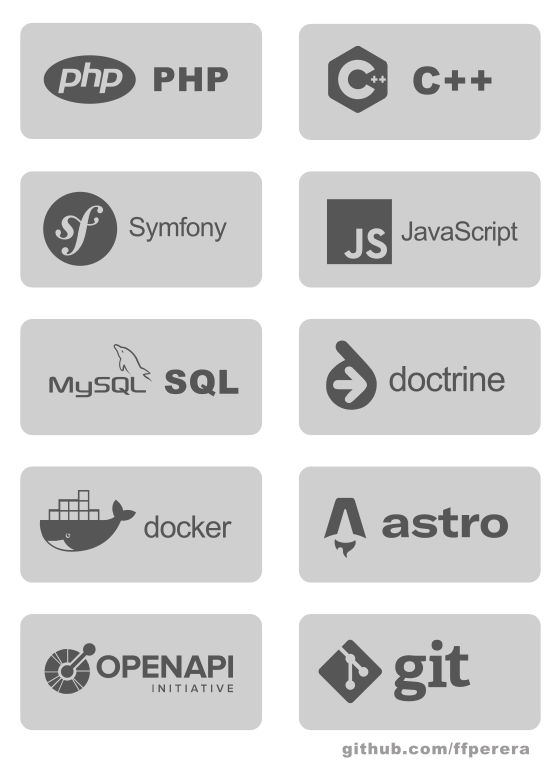
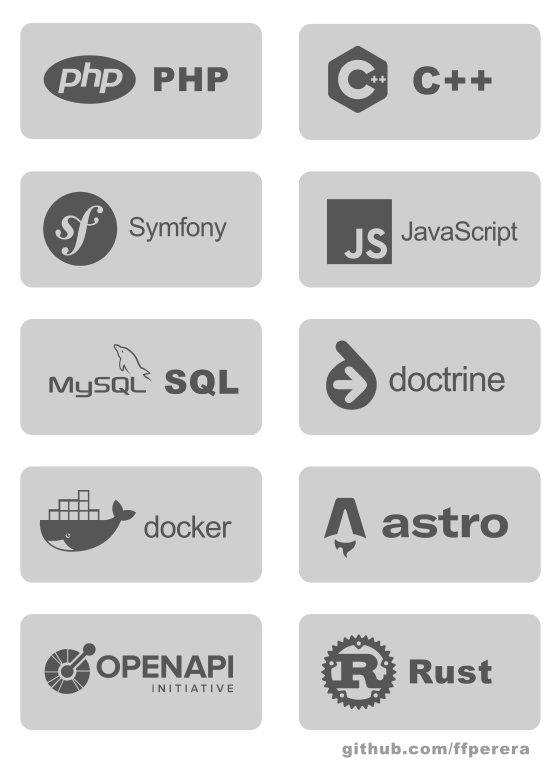
actualización contenido e imágenes

Changed region(s): [[0.5768, 0.8107, 0.8804, 0.9308]]

diff --git a/README.md b/README.md
@@ -1,66 +1,67 @@
-![Felipe Fernández](images/felipe-fernandez-perera-profile-github.jpg)
+![Felipe Fernández](images/felipe-fernandez-perera-profile-github2.jpg)
 
 
 # Felipe Fernández Perera 
 
-¡Hola! 👋
+Hi! 👋
 
-Mi nombre es *Felipe Fernández*. 
+My name is *Felipe Fernández*. 
 
 [![LinkedIn](https://img.shields.io/badge/linkedin-%230077B5.svg?style=for-the-badge&logo=linkedin&logoColor=white)](https://www.linkedin.com/in/felipefernandez/)
 
-Soy ingeniero de telecomunicaciones (ingeniería técnica en **Univ. Alcalá de Henares**, ingeniería superior telecomunicaciones en **Univ. Cantabria**), aunque prácticamente toda mi carrera profesional ha estado relacionada principalmente con el desarrollo de software.   
 
-En 1998 puse en marcha, junto con mi hermano, también teleco, una empresa de **consultoría IT y desarrollo de software**, orientada sobre todo a pequeña y mediana empresa. Para clientes finales y como socios tecnológicos para diferentes consultoras. 
+I am a telecom engineer (bachelor degree from University of Alcalá de Henares, master degree from University of Cantabria), although my entire professional career has been related to software development.
 
-Nos dedicábamos sobre todo a desarrollo backend: automatización, paneles de gestión / backoffice, integración de procesos, integración con APIs externas y APIs propias, desarrollo de plugins para aplicaciones comerciales...
+In 1998, together with my brother, also a telecom engineer, we started an IT consulting and software development company, primarily focused on small and medium-sized businesses. We worked for end clients and, as technology partners, for various consulting firms covering national (Spain) and international clients.
 
-En 2015 decidí centrarme en proyectos propios, relacionados con creación de contenidos, divulgación, SEO, etc. Una actividad que me permitía pasar más tiempo con mi familia y mis hijos pequeños.
+We mainly focused on backend development: automation, backoffices, business process integration, internal and external APIs integration, plugins for commercial applications (WordPress, PrestaShop)...
 
-En este momento estoy abierto a propuestas y nuevas oportunidades profesionales. Puedes contactar conmigo a través de [mi perfil de linkedin](https://www.linkedin.com/in/felipefernandez/).
+In 2015, I decided to focus on my own projects, mainly related to content creation and SEO. This was an activity that allowed me to spend more time with my kids.
+
+Now, I am open to proposals and new professional opportunities. You can contact me through [my LinkedIn profile](https://www.linkedin.com/in/felipefernandez/).
 
 
-## Habilidades / skills
+## Skills
 
-Me encanta aprender cosas nuevas. 
+I love learning.
 
-Aprender, investigar, enfrentar un problema técnico hasta encontrar una solución.
+Learning new things, researching, and tackling a technical problem until I find a solution.
 
-En muchos proyectos mi papel ha estado más centrado en la parte de análisis y planificación: elaborar informes técnicos, recomendaciones y especificaciones a partir de las necesidades del cliente, redacción de casos de uso / historias de usuario, planificación, seguimiento...
+In many projects my role has been more focused on analysis and planning: writing technical reports, recommendations, technical specifications based on the client's needs, project management...
 
-Pero también me gusta programar. 
+But I also enjoy programming.
 
-He programado en muchos lenguajes: C/C++, Java, Python, JavaScript... 
+I have programmed in many languages: C/C++, Java, PHP, Python, JavaScript, Rust...
 
-Una gran parte de las aplicaciones y desarrollos han sido en PHP, utilizando nuestros propios frameworks en algunos casos, frameworks genéricos como *Symfony* en otros, o adaptándonos a la arquitectura del proyecto o del software utilizado en el mismo (*WordPress* y su ecosistema, *PrestaShop*, *Magento*, *Moodle*...)   
 
 ![tecnologías](images/software-technologies.png)
 
-Casi siempre he trabajado con equipos pequeños, siguiendo una filosofía de gestión ágil siempre que ha sido posible, tanto en el desarrollo de proyectos para el cliente final, como colaborando con otros equipos (consultoras en muchos casos o con el propio equipo técnico del cliente en otros)
 
-## Creación de software
+Around 90% of the development projects I have been involved in were directly or indirectly related to PHP, mainly on the backend side.
 
-Durante mi actividad en la empresa de desarrollo, creamos varias aplicaciones propias y motores (frameworks) que luego utilizábamos en diferentes proyectos, personalizando y adaptando para cada cliente y necesidad: 
+I have experience dealing with legacy code inherited from client's applications. 
 
-- **ALO**. Sistema integral de gestión de alojamientos y reservas (para asociaciones de turismo, centrales de reservas online, etc.) que vendimos finalmente.
-- **cubo**. Motor / framework para desarrollo rápido de aplicaciones web primando el rendimiento de la aplicación final.
-- **cubic publisher**. Gestor de contenidos multi-sitio / multi-idioma, anterior a la aparición de wordpress.
-- **integra-G**. Sistema de gestión integral para empresas agroalimentarias que cubría todo el flujo, desde la entrada de materias primas, escandallo, trazabilidad, procesos de producción, almacenaje, empaquetado, venta, facturación... 
+We have used our own frameworks in some projects, as well as generic frameworks like [Symfony](https://symfony.com/).
+
+I enjoy writing, and I have several blogs on different topics, for example some of them related to photography and cameras (quecamarareflex.com, quecamaradefotos.com, aprendiendofotografia.com...)
+
+Over the past few years, I have worked extensively with WordPress. As an user and also as developer (plugins, themes, optimization).
+
+Currently, I have migrated most of those blogs to static-site generators like Astro and Hugo, looking for best performance and a better workflow.
 
 
-          
+## Project management
 
-<!--
-**ffperera/ffperera** is a ✨ _special_ ✨ repository because its `README.md` (this file) appears on your GitHub profile.
+I have worked with small teams, following an agile management philosophy whenever possible, both in developing projects for end clients and also collaborating with other teams (consulting firms in some cases or the client's own technical team in others).
 
-Here are some ideas to get you started:
+Some examples of dev projects I have led:
 
-- 🔭 I’m currently working on ...
-- 🌱 I’m currently learning ...
-- 👯 I’m looking to collaborate on ...
-- 🤔 I’m looking for help with ...
-- 💬 Ask me about ...
-- 📫 How to reach me: ...
-- 😄 Pronouns: ...
-- ⚡ Fun fact: ...
--->
+- Management systems for accommodations and bookings.
+- Management systems for agri-food companies covering the entire process flow: raw material intake, costing, traceability, production processes, storage, packaging, sales, invoicing...
+- Integrations of payment gateways.
+- Integrations of suppliers and distributors APIs.
+- Multi-tenant backoffices / management panels for many web apps.
+- App optimization (SQL, caching strategies, algorithms...)
+
+
+
